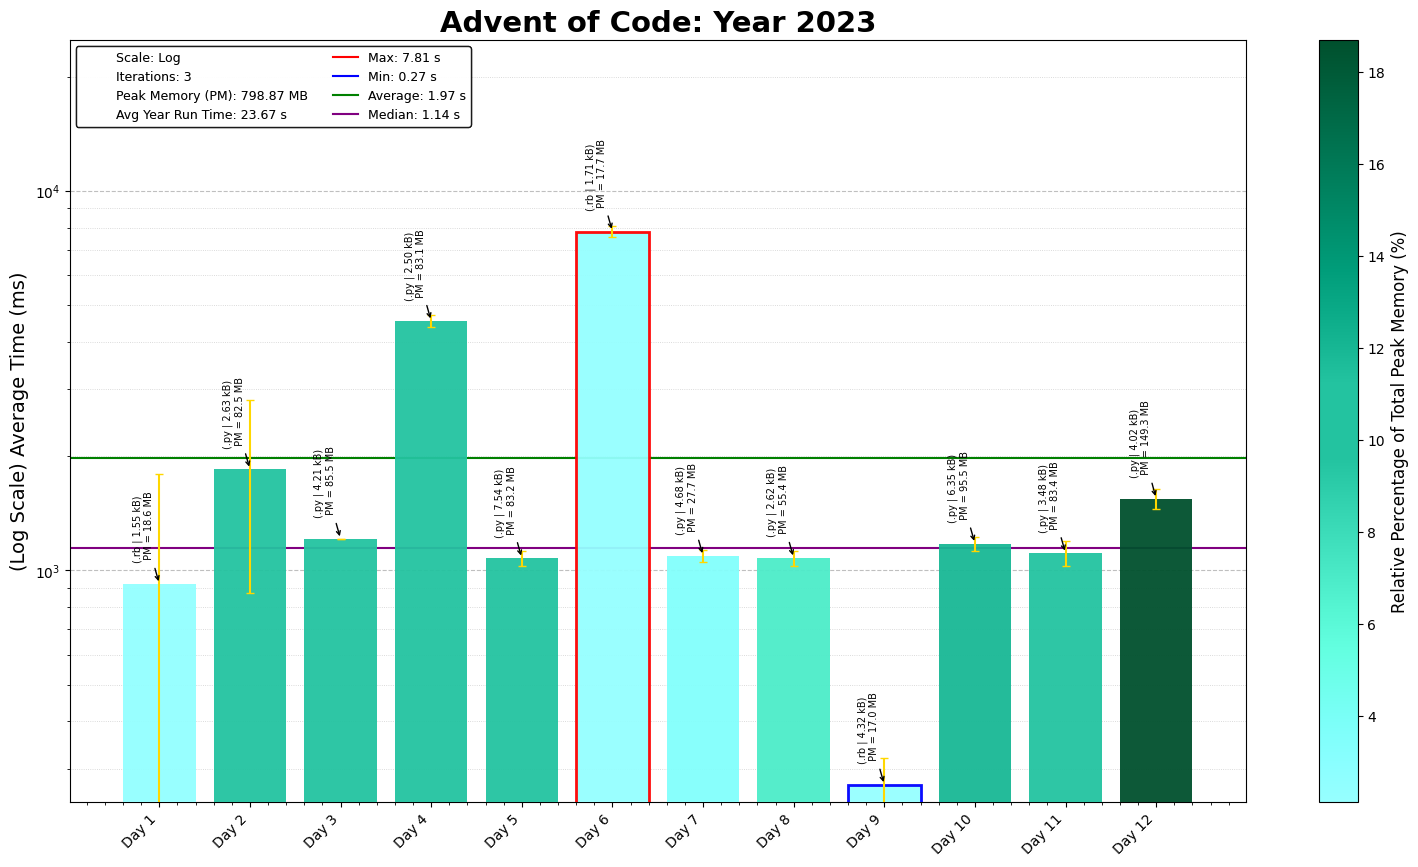
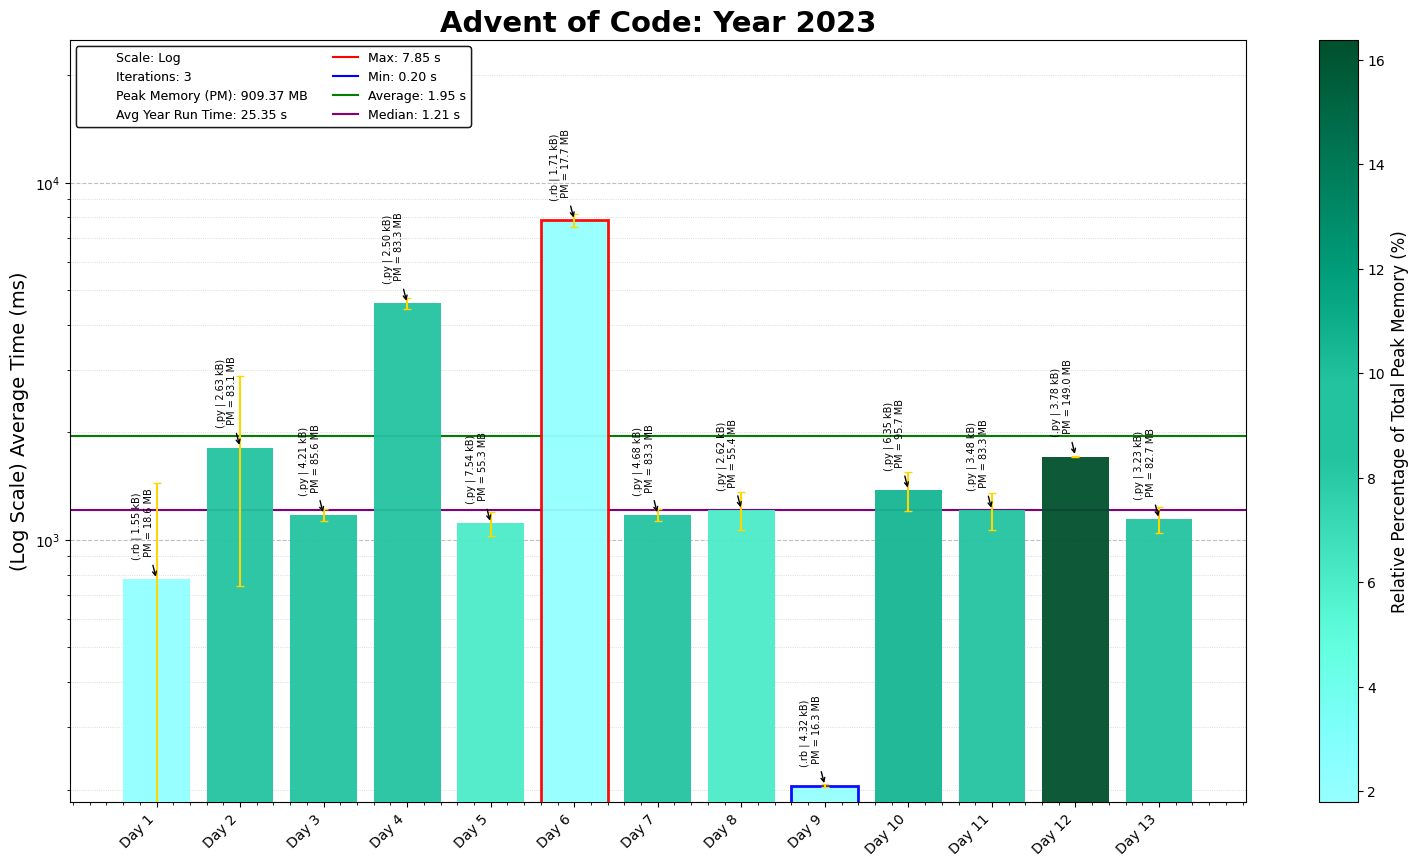
2023 Day 13 P1

diff --git a/2023/13/2023Day13.py b/2023/13/2023Day13.py
@@ -1,0 +1,79 @@
+"""Advent of Code - Day 13, Year 2023
+Solution Started: Jan 1, 2025
+Puzzle Link: https://adventofcode.com/2023/day/13
+Solution by: abbasmoosajee07
+Brief: [Checking Reflections]
+"""
+
+#!/usr/bin/env python3
+
+import os, re, copy
+import numpy as np
+import pandas as pd
+import matplotlib.pyplot as plt
+
+# Load the input data from the specified file path
+D13_file = "Day13_input.txt"
+D13_file_path = os.path.join(os.path.dirname(os.path.abspath(__file__)), D13_file)
+
+# Read and sort input data into a grid
+with open(D13_file_path) as file:
+    input_data = file.read().strip().split('\n\n')
+
+def check_reflection(init_pattern: list) -> int:
+    """
+    Find the reflection point in a given 2D pattern.
+
+    Parameters:
+        init_pattern (list): A 2D list representing the initial pattern.
+
+    Returns:
+        int: The reflection point row number, or 0 if no reflection is found.
+    """
+    reflection_point = 0
+
+    # Transpose the grid for easier row comparisons
+    transposed_pattern = np.transpose(init_pattern)
+    pattern_length = len(transposed_pattern)
+
+    for row_no in range(pattern_length - 1):
+        current_row = transposed_pattern[row_no]
+        next_row = transposed_pattern[row_no + 1]
+
+        # Check if the current row and the next row are identical
+        if np.array_equal(current_row, next_row):
+            reflection_length = pattern_length - (row_no + 1)
+
+            # Calculate slice indices for the base and reflected patterns
+            base_start = max(0, (row_no + 1) - reflection_length)
+            base_end = row_no + 1
+            reflected_start = row_no + 1
+            reflected_end = reflected_start + (base_end - base_start)
+
+            # Define the base and reflected patterns
+            base_pattern = transposed_pattern[base_start:base_end]
+            reflected_pattern = transposed_pattern[reflected_start:reflected_end]
+
+            # Check if the base pattern matches the reflected pattern
+            if np.array_equal(base_pattern, reflected_pattern[::-1]):
+                reflection_point = reflected_start
+                break
+
+    return reflection_point
+
+test_input_1 = ['#.##..##.\n..#.##.#.\n##......#\n##......#\n..#.##.#.\n..##..##.\n#.#.##.#.', '#...##..#\n#....#..#\n..##..###\n#####.##.\n#####.##.\n..##..###\n#....#..#']
+test_input_2 = ['#.##..##.\n..#.##.#.\n##......#\n##......#\n..#.##.#.\n..##..##.\n#.#.##.#.', '#...##..#\n#....#..#\n..##..###\n#####.##.\n#####.##.\n..##..###\n#....#..#', '.#.##.#.#\n.##..##..\n.#.##.#..\n#......##\n#......##\n.#.##.#..\n.##..##.#', '#..#....#\n###..##..\n.##.#####\n.##.#####\n###..##..\n#..#....#\n#..##...#', '#.##..##.\n..#.##.#.\n##..#...#\n##...#..#\n..#.##.#.\n..##..##.\n#.#.##.#.']
+
+row_reflections, col_reflections = 0, 0
+for grid in input_data[:]:
+    grid_array = np.array([list(row) for row in grid.split('\n')])
+
+    # Check Vertical Reflection
+    reflection_point = check_reflection(grid_array)
+    col_reflections += reflection_point
+    if reflection_point == 0: # No Vertical Reflection
+        transposed_grid = np.transpose(grid_array)
+        # Check Horizontal Reflection
+        row_reflections += (100 * check_reflection(transposed_grid))
+
+print("Part 1:", (col_reflections + row_reflections))
